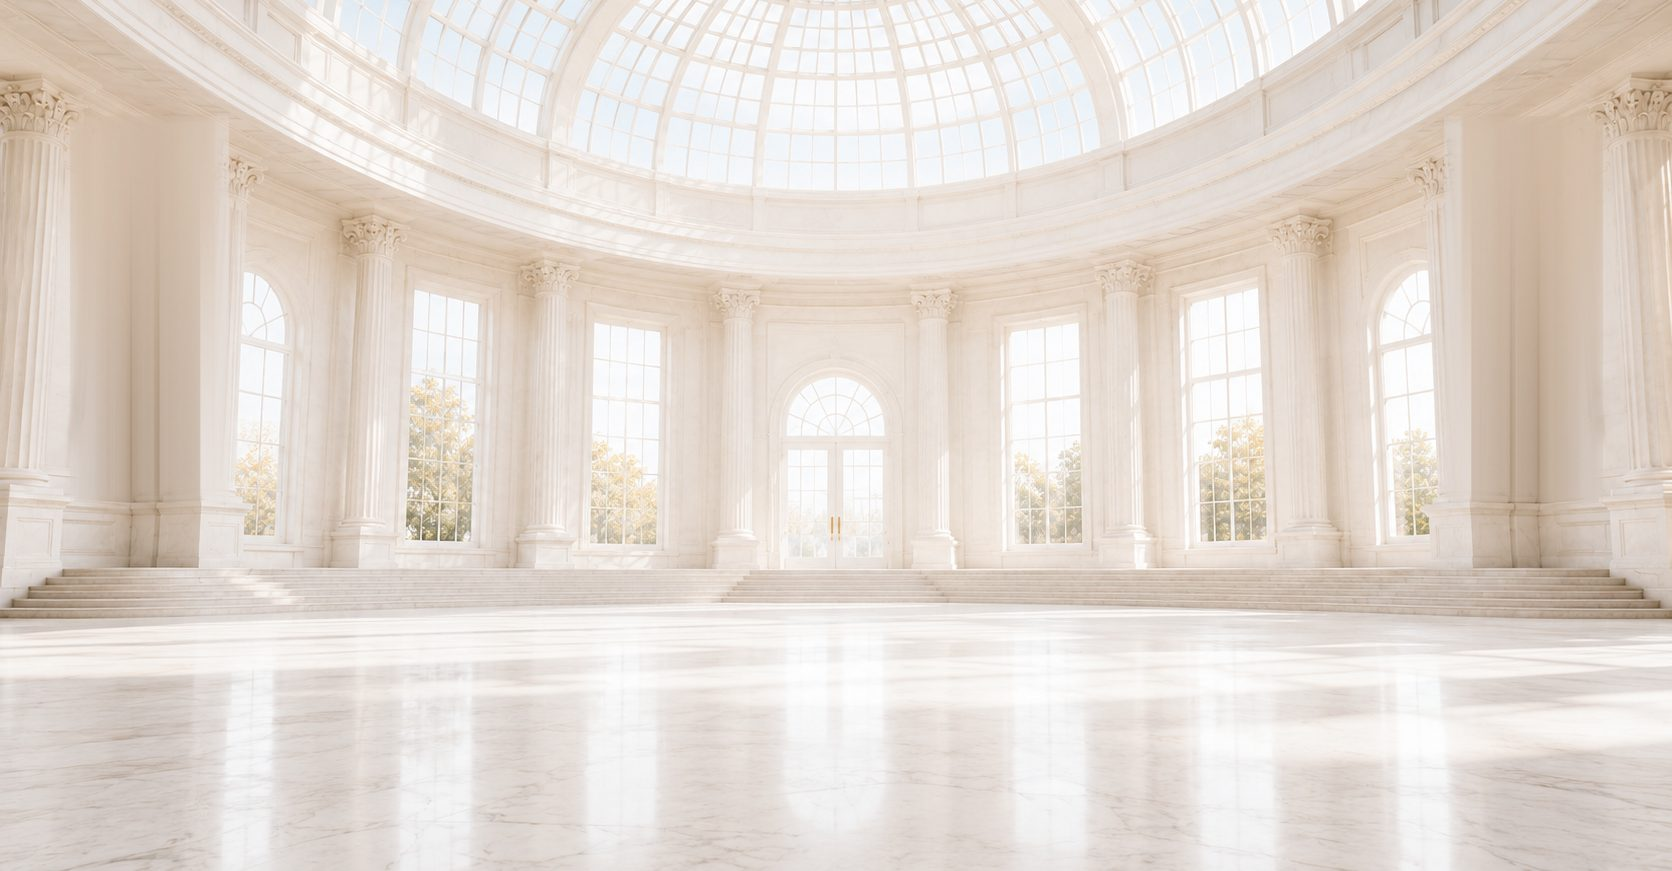
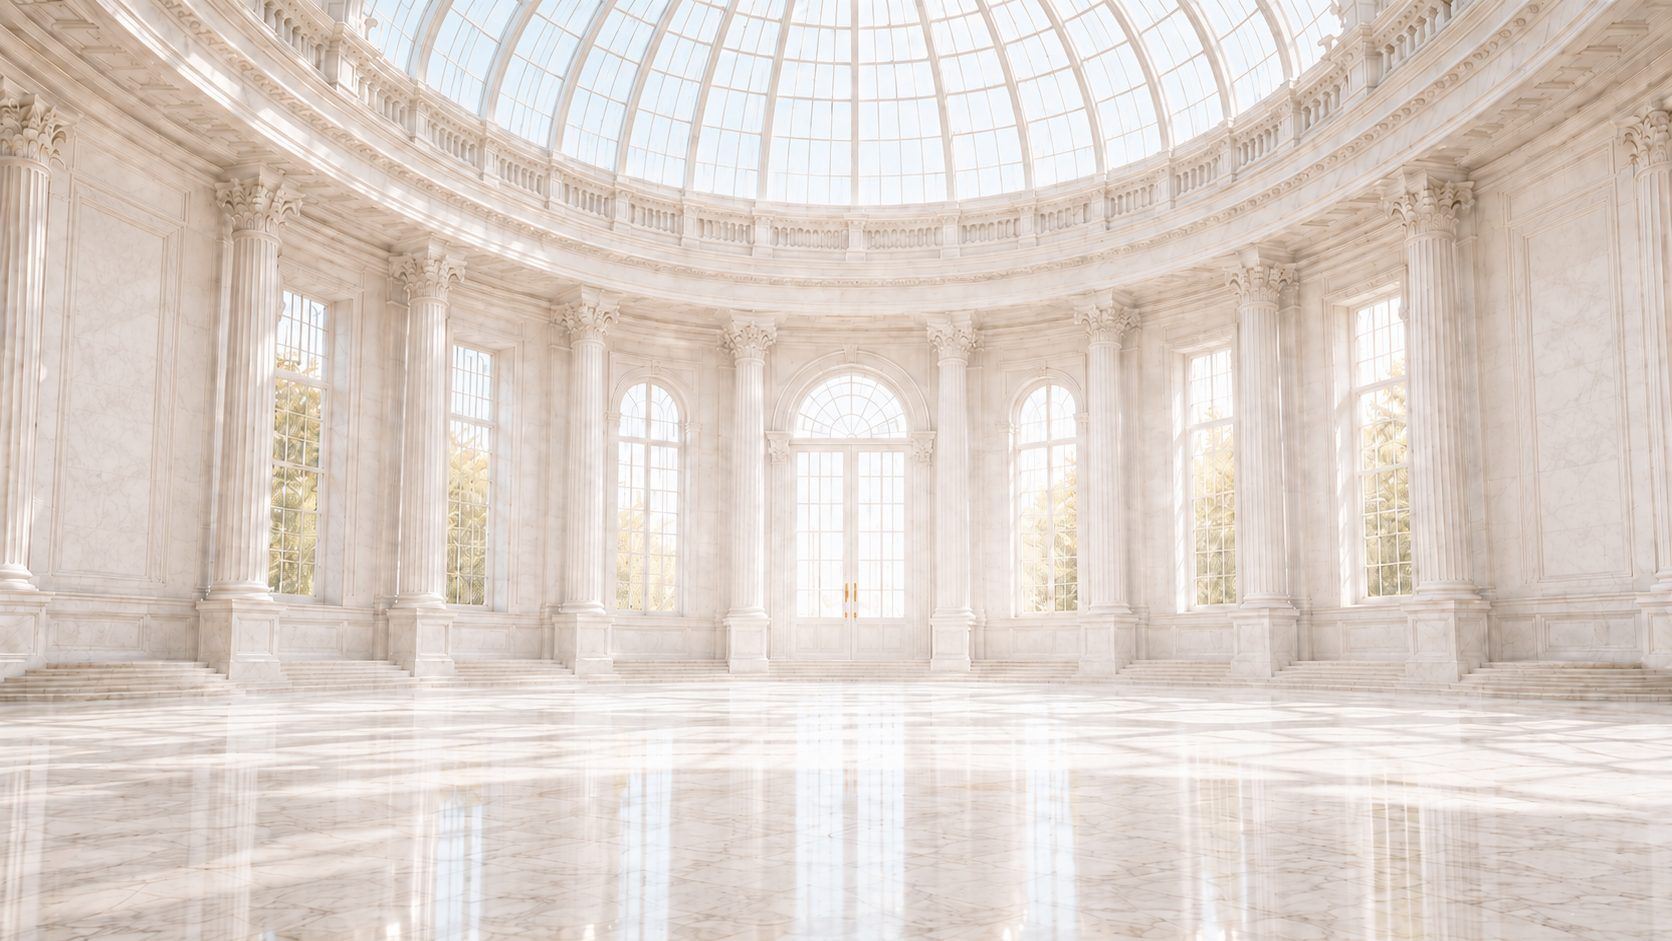
bright hall: a new rotunda, and no crop at all
The plate is the render the project owner chose from hall backgrounds/. Same
room, differently drawn: no banners to take down this time, a balustraded
gallery under the dome, and a patterned floor.

Its horizon is measured the same way, and this one answers cleanly. Six rings
agree — balustrade, entablature, window sill and column base all dip in the
middle, the step foot and a floor ring both rise — and the curvature turns
between the last two, at 69.2% of the plate. That falls on the foot of the
colonnade, level with the door's threshold: the eye is at the height of the
top step, as it was in the room before it.

No crop this time, and for a reason that only became true when the plate
stopped covering the hero. A contained plate is letterboxed against a hero
squarer than it is, so the taller the plate the more of the hero it fills: at
1440x900 the render's own 1.78 leaves a 90px band below it where the previous
1.92 crop left 150. Cropping the picture would make the picture smaller.

The wall rises further above the horizon — 7.2cqw against 3.3. Its foot and
the plinth line scale differently (one with the plate's width, the other with
the hero's height), so they drift against each other across viewports: at the
old figure the two coincided exactly at 1440 and the wall crossed the labels
by 38px at 1920. Measured across 1280 / 1440 / 1600 / 1920 / 2560, 7.2 clears
the plinths everywhere but the shortest hero, where a 720px window leaves the
[…]

diff --git a/scripts/crop-hall.py b/scripts/crop-hall.py
@@ -12,15 +12,23 @@ Where the horizon is, and how it was found
 ------------------------------------------
 This room is a rotunda, so its 'horizontal' lines are circles, and a circle
 photographs as a straight line only when the camera's eye is at its height.
-Fitting the rings — the dome ring, the entablature, the step nosing, the step
-foot — and reading off the height where their curvature changes sign puts the
-eye at y = 590 of 941, dead level with the top step. The step ring is visibly
-flat there while the entablature above dips in the middle and the floor below
-rises: the two signatures of being under and over eye level.
+So trace the rings and read off the height where their curvature changes sign.
+Six of them agree here:
 
-(A Hough-and-least-squares fit over every receding line, which is how the
-previous plate was measured, answers 43% here and is wrong. In a rotunda most
-of what it finds are dome ribs converging on the dome's own axis.)
+    balustrade ring   21.8%   dips in the middle — seen from below
+    entablature       32.5%   dips
+    window sill       64.9%   dips
+    column base       66.7%   dips
+    step foot         72.5%   rises — seen from above
+    floor ring        79.0%   rises
+
+The sign turns between the column base and the step foot, at y = 651 of 941.
+That lands on the foot of the colonnade, level with the door's threshold: the
+camera's eye is at the height of the top step.
+
+(A Hough-and-least-squares fit over every receding line — how the very first
+plate was measured — is wrong in a room like this. Most of what it finds are
+dome ribs, and those converge on the dome's own axis, not the room's horizon.)
 
     .venv-cv/bin/python scripts/crop-hall.py
 """
@@ -35,29 +43,37 @@ HERE = pathlib.Path(__file__).resolve().parent.parent
 SRC = HERE / 'assets-src/hall/bright-hall-source.png'
 OUT = HERE / 'public/media'
 
-#: A light trim only — the flat crown of the dome off the top, and foreground
-#: marble off the bottom that the page's own wash covers anyway.
+#: No crop at all, now that the plate is shown whole rather than covering the
+#: hero. Two reasons it earns none:
 #:
-#: The temptation is to crop much harder, to a letterbox like the previous
-#: plate. Don't. The plate is sized to cover the hero, so a wide plate on a
-#: 16:10 screen is blown up until only its middle third is visible — a 2.28:1
-#: crop came out 2056px wide inside a 1440px window, which magnifies the room
-#: until the video wall alone is most of the screen. Keeping the plate near the
-#: render's own 1.78 keeps the whole rotunda in frame.
-CROP_TOP = 30
-CROP_BOTTOM = 40
+#: The picture is already framed — dome to floor with nothing dead at either
+#: end — and the page's own join dissolves its last twelve per cent anyway.
+#:
+#: And a crop would cost more than it saves. A contained plate is letterboxed
+#: against a hero that is squarer than it is, so the taller the plate the more
+#: of the hero it fills: at 1440x900 the render's own 1.78 leaves a 90px band
+#: below it where the previous 1.92 crop left 150. Cropping the picture makes
+#: the picture smaller.
+CROP_TOP = 0
+CROP_BOTTOM = 0
 
 #: measured on the source, in source pixels — see the note above
-HORIZON = 590.0
-AXIS = 838.0
+HORIZON = 651.0
+AXIS = 836.0
 LANDMARKS = {
-    'dome ring': 117.5,
-    'entablature': 297.3,
-    'door arch': 400.0,
-    'horizon / platform': HORIZON,
-    'step foot': 637.4,
+    'balustrade ring': 204.7,
+    'entablature': 305.4,
+    'window sill': 610.7,
+    'horizon / column base': HORIZON,
+    'step foot': 681.9,
+    'floor ring': 743.6,
 }
 
+#: Nothing to take down in this plate — it arrived without the two red banners
+#: the previous one hung, so BANNERS is empty and take_down_the_banners() is a
+#: no-op. The machinery is kept because the note below is the reason a banner
+#: cannot simply be cropped around, and the next render may hang one again.
+#:
 #: The two red banners come out.
 #:
 #: Not a matter of taste. The plate is wider than the window it is shown in, so
@@ -80,7 +96,7 @@ LANDMARKS = {
 #:
 #: x0, y0, x1, y1 — the banner with its rod, its finials, its fringe, and the
 #: shadow it casts on the wall.
-BANNERS = [(70, 146, 229, 532), (1444, 146, 1603, 532)]
+BANNERS = []
 BANNER_PAD = 40          # rows of clean wall sampled above and below
 BANNER_FEATHER = 8       # px, so the patch has no seam
 
